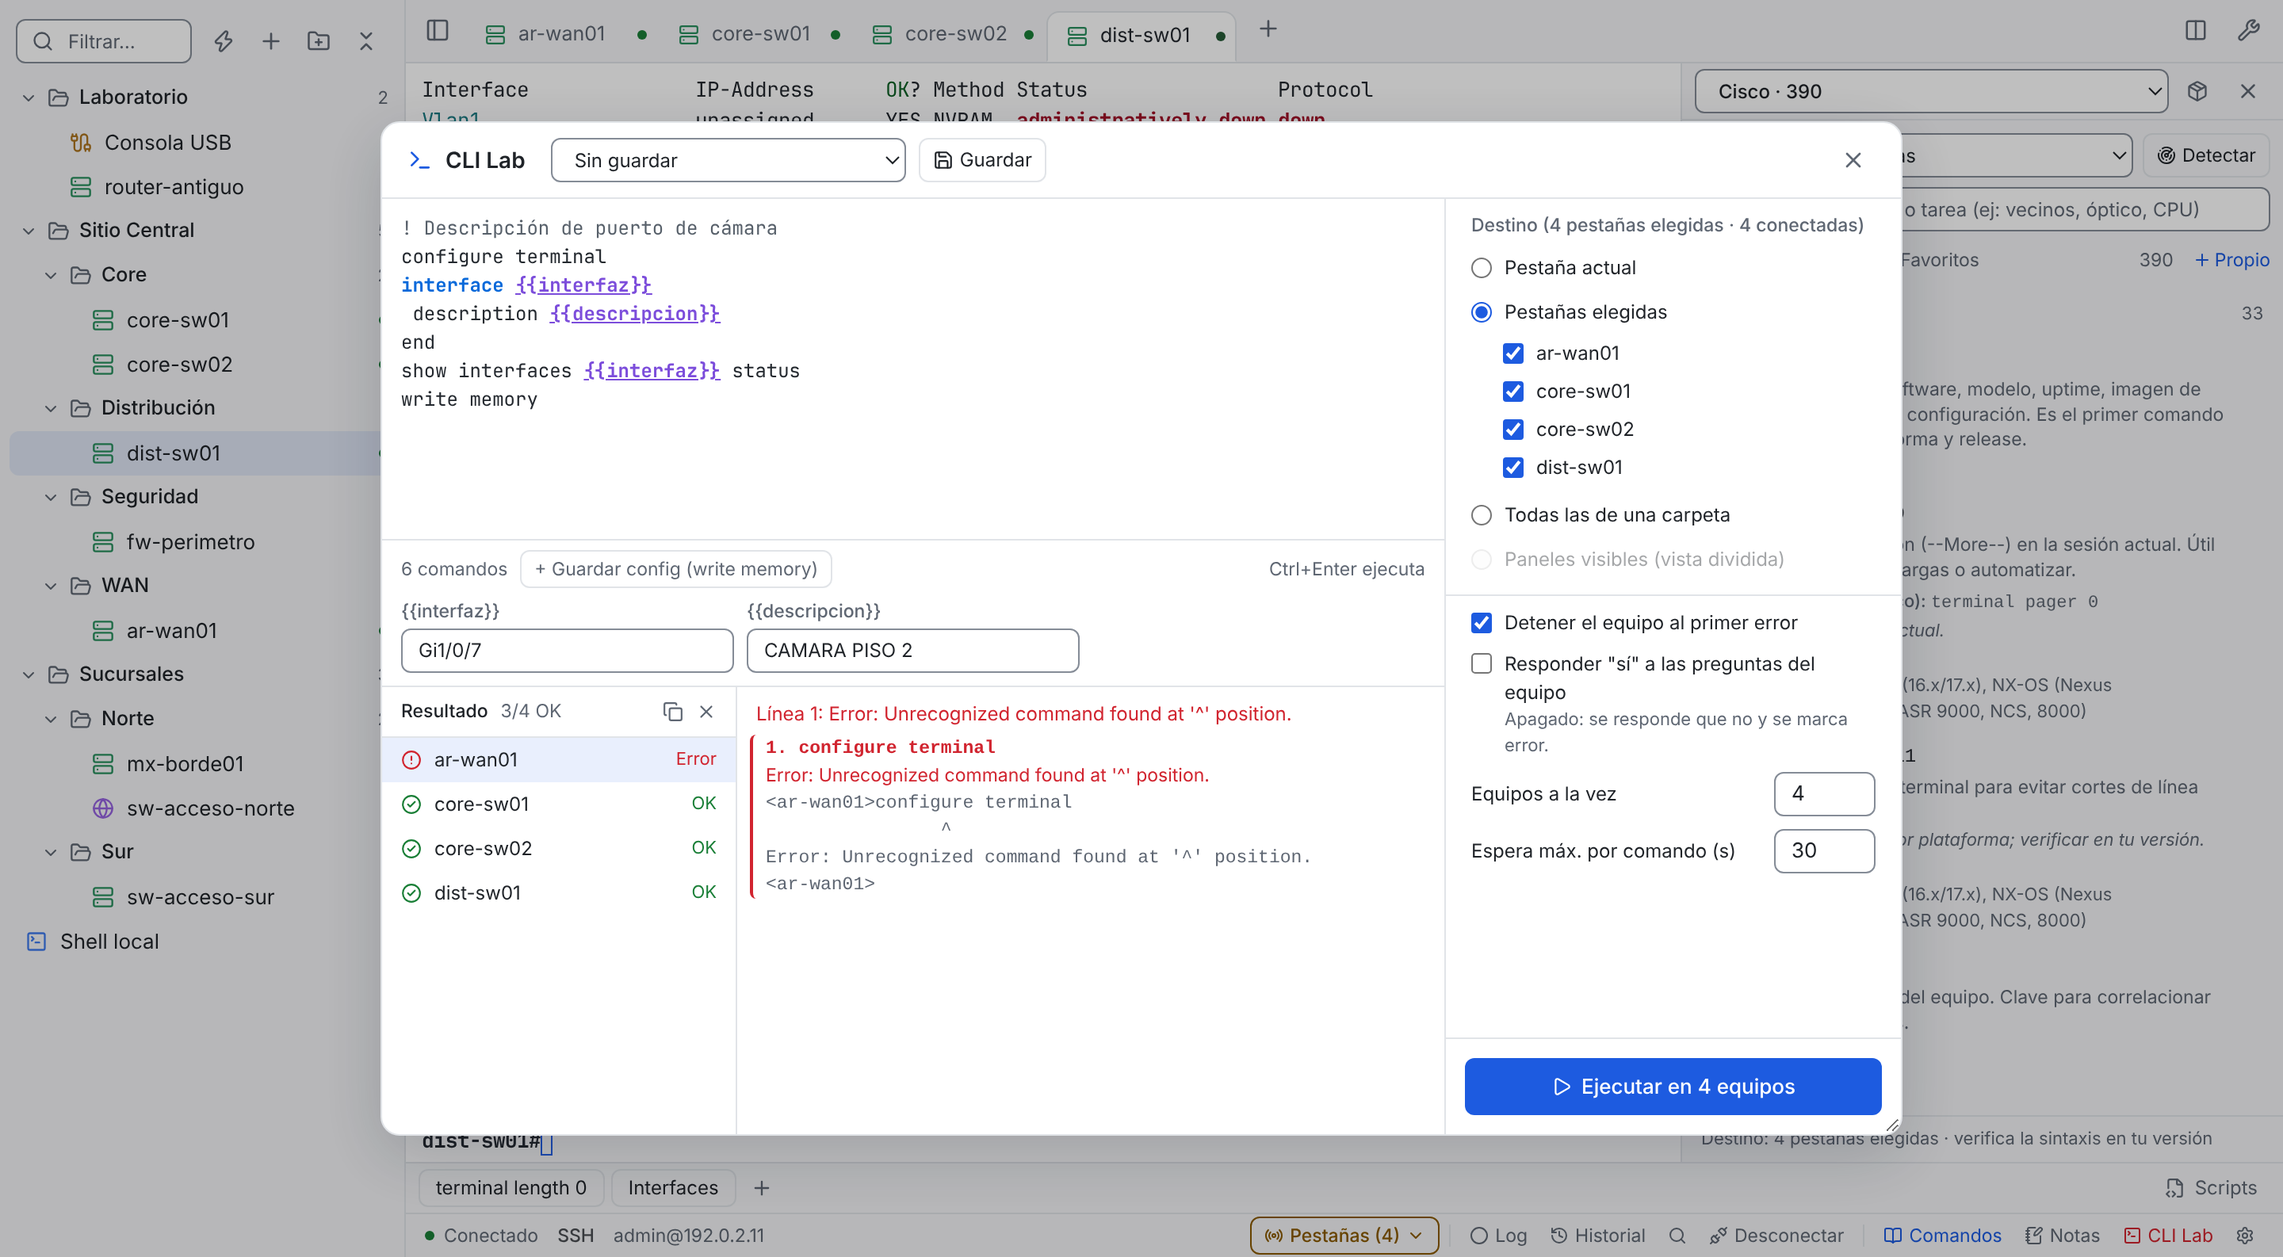
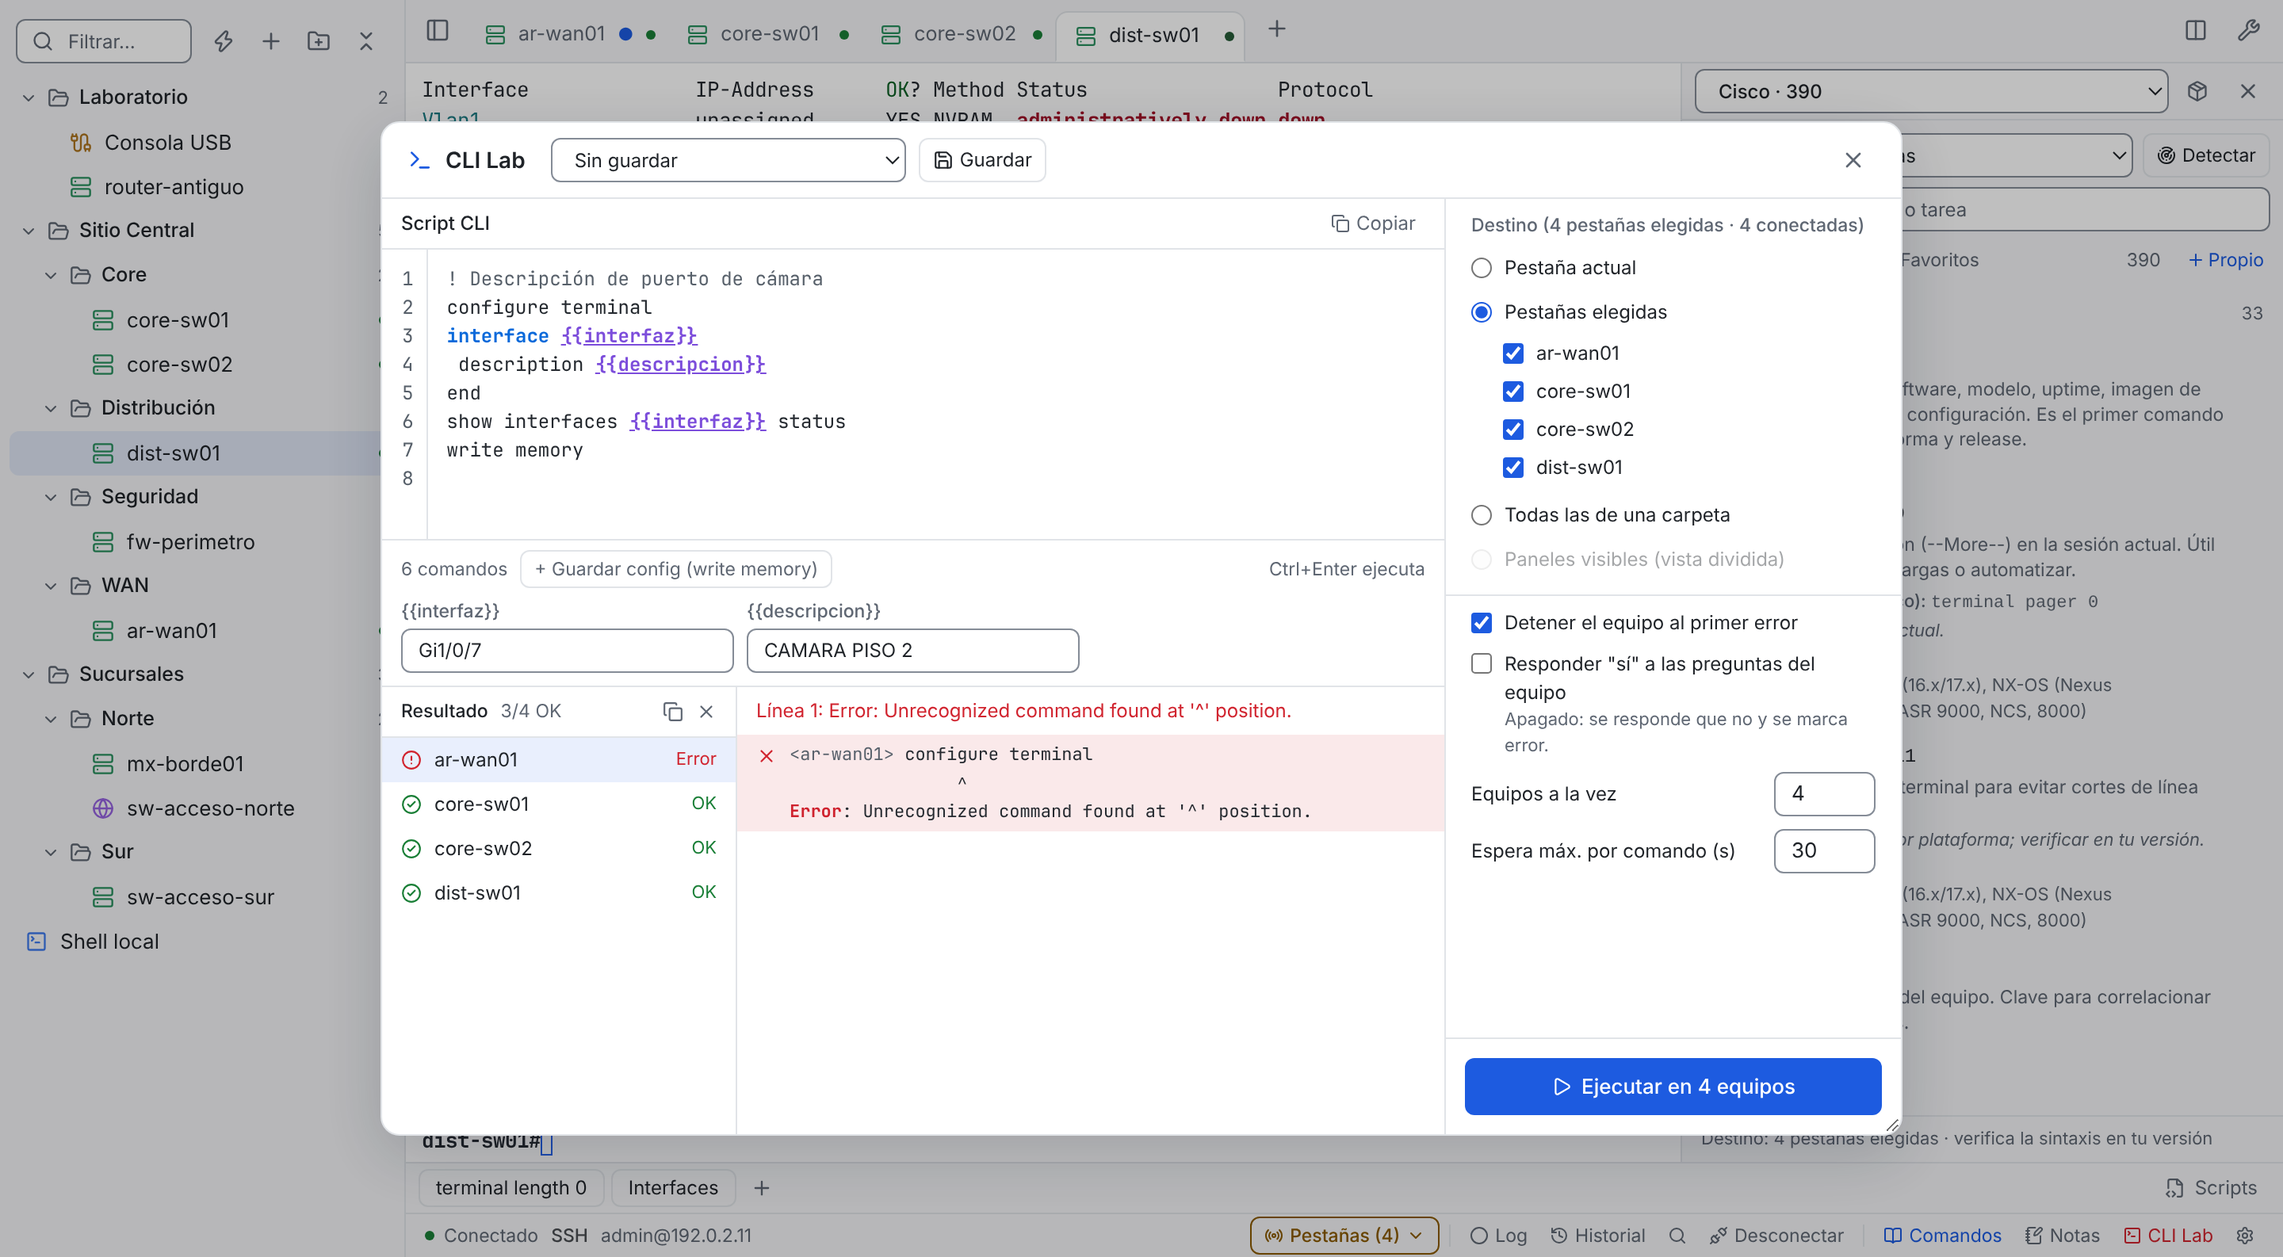
CLI Lab con aspecto de Code Lab: números de línea, salida tipo consola y modo claro
- El Lab sigue el modo claro u oscuro de la app (no el tema de la
  terminal) y resalta con las mismas reglas del fabricante.
- Editor con números de línea y barra "Script CLI · Copiar".
- Salida como la consola del equipo: ✓ o ✗, prompt atenuado y comando
  resaltado, y debajo solo lo que respondió el equipo ("new entry …
  added"); la fila con error queda en rojo y la vista salta a ella.
- "+ Guardar config" usa el fabricante de la pestaña activa (en FortiOS no
  ofrece write memory).
- splitStep() separa prompt, eco y respuesta (con pruebas). Demo: el
  FortiGate responde con contexto en el prompt.

Claude-Session: https://claude.ai/code/session_01LZm5smYBDTDfaAPY2jGg55

diff --git a/src/components/CliLab.tsx b/src/components/CliLab.tsx
@@ -1,15 +1,16 @@
 import { useEffect, useMemo, useRef, useState } from "react";
 import type { ITheme } from "@xterm/xterm";
 import { writeText } from "@tauri-apps/plugin-clipboard-manager";
-import { CircleAlert, CircleCheck, Copy, Play, Save, Square, Terminal, X } from "lucide-react";
+import { Check, CircleAlert, CircleCheck, Copy, Play, Save, Square, Terminal, X } from "lucide-react";
 import { invoke } from "@tauri-apps/api/core";
-import { CodeEditor } from "./CodeEditor";
+import { CodeEditor, renderHighlighted } from "./CodeEditor";
+import { cssColor } from "../lib/highlight";
 import { TargetOptions } from "./BroadcastTarget";
 import { BroadcastDialog } from "./BroadcastDialog";
 import { fillTemplate, templateVars } from "./TemplateDialog";
 import { Compiled } from "../lib/highlight";
 import { Resolved, isBroadcastRunning, targetLabel, useBroadcastTarget, useWorkspace } from "../lib/broadcast";
-import { LabItem, SAVE_COMMAND, clearLab, isLabRunning, labReport, runLab, scriptLines, stopLab, useLabRun } from "../lib/cliLab";
+import { LabItem, SAVE_COMMAND, clearLab, isLabRunning, labReport, runLab, scriptLines, splitStep, stopLab, useLabRun } from "../lib/cliLab";
 import { runOnDeviceResult } from "../lib/deviceRun";
 import { isSecretVar } from "../lib/templateSecrets";
 import { useDragResize } from "../lib/useDragResize";
@@ -268,8 +269,20 @@ export function CliLab(p: Props) {
 
         <div className="flex-1 min-h-0 flex">
           <section className="flex-1 min-w-0 flex flex-col">
+            <div className="shrink-0 flex items-center gap-2 px-3 h-8 border-b border-line text-[12px]">
+              <span className="font-medium">Script CLI</span>
+              <span className="flex-1" />
+              <button
+                onClick={() => writeText(text).then(() => setMsg("Script copiado"))}
+                disabled={!text.trim()}
+                className="flex items-center gap-1 px-1.5 h-6 rounded text-muted hover:text-fg hover:bg-hover disabled:opacity-40"
+              >
+                <Copy size={12} /> Copiar
+              </button>
+            </div>
             <div className="flex-1 min-h-0 flex flex-col overflow-hidden border-b border-line">
               <CodeEditor
+                gutter
                 value={text}
                 onChange={setText}
                 compiled={p.compiled}
@@ -352,22 +365,45 @@ export function CliLab(p: Props) {
                     ))}
                   </ul>
                 </div>
-                <div className="flex-1 min-w-0 overflow-auto font-mono text-[11.5px] p-2">
-                  {!shown && <p className="font-sans text-[12px] text-muted p-2">Elige un equipo para ver la respuesta de cada comando.</p>}
-                  {shown && shown.reason && <p className="font-sans text-[12px] text-danger px-1 pb-1">{shown.reason}</p>}
-                  {shown?.steps.map((s, k) => (
-                    <div
-                      key={k}
-                      ref={!s.ok && shown.steps.findIndex((x) => !x.ok) === k ? failRef : undefined}
-                      className={`mb-1.5 rounded border-l-2 pl-2 ${s.ok ? "border-line" : "border-danger"}`}
-                    >
-                      <div className={`font-semibold ${s.ok ? "" : "text-danger"}`}>
-                        {k + 1}. {s.cmd}
+                {/* Salida como la consola del equipo: prompt y comando, ✓ o ✗, y lo que respondió. */}
+                <div
+                  className="flex-1 min-w-0 overflow-auto py-1.5"
+                  style={{ background: p.theme.background, color: p.theme.foreground, fontFamily: fontStack(p.font), fontSize: Math.max(11, p.fontSize - 1) }}
+                >
+                  {!shown && <p className="font-sans text-[12px] text-muted p-3">Elige un equipo para ver la respuesta de cada comando.</p>}
+                  {shown && shown.reason && <p className="font-sans text-[12px] text-danger px-3 pb-1.5">{shown.reason}</p>}
+                  {shown?.steps.map((s, k) => {
+                    const { prompt, body } = splitStep(s.output, s.cmd);
+                    const first = !s.ok && shown.steps.findIndex((x) => !x.ok) === k;
+                    return (
+                      <div
+                        key={k}
+                        ref={first ? failRef : undefined}
+                        className={`px-3 py-1 leading-[1.55] ${s.ok ? "hover:bg-hover" : "bg-[color-mix(in_srgb,var(--danger)_10%,transparent)]"}`}
+                      >
+                        <div className="flex items-start gap-2 whitespace-pre">
+                          {s.ok ? <Check size={13} className="shrink-0 mt-[3px] text-ok" /> : <X size={13} className="shrink-0 mt-[3px] text-danger" />}
+                          <span className="min-w-0">
+                            {prompt && <span style={{ color: cssColor("gray", p.theme) }}>{prompt} </span>}
+                            {renderHighlighted(s.cmd.trim(), p.compiled, p.theme)}
+                          </span>
+                        </div>
+                        {(body.length > 0 || s.note) && (
+                          <div className="pl-[21px] pt-0.5 whitespace-pre">
+                            {body.map((l, i) => (
+                              <div key={i}>{renderHighlighted(l, p.compiled, p.theme)}</div>
+                            ))}
+                            {s.note && body.every((l) => !s.note!.includes(l.trim()) || !l.trim()) && (
+                              <div className="font-sans text-[12px] text-danger">{s.note}</div>
+                            )}
+                          </div>
+                        )}
                       </div>
-                      {s.note && <div className="font-sans text-danger">{s.note}</div>}
-                      <pre className="whitespace-pre-wrap text-muted">{s.output.replace(/\r/g, "").trim()}</pre>
-                    </div>
-                  ))}
+                    );
+                  })}
+                  {shown && shown.status === "running" && (
+                    <div className="px-3 py-1 font-sans text-[12px] text-muted animate-pulse">Ejecutando línea {shown.steps.length + 1}…</div>
+                  )}
                 </div>
               </section>
             )}

diff --git a/src/components/CodeEditor.tsx b/src/components/CodeEditor.tsx
@@ -2,6 +2,35 @@ import { forwardRef, useMemo, useRef } from "react";
 import type { ITheme } from "@xterm/xterm";
 import { Compiled, cssColor, runs } from "../lib/highlight";
 
+/** Una línea coloreada con las reglas de resaltado (las mismas de la terminal). */
+export function renderHighlighted(line: string, compiled: Compiled[], theme: ITheme): React.ReactNode {
+  const spans = runs(line, compiled);
+  if (!spans.length) return line || " ";
+  const parts: React.ReactNode[] = [];
+  let pos = 0;
+  spans.forEach(([s, e, i], k) => {
+    if (s > pos) parts.push(line.slice(pos, s));
+    const st = compiled[i].style;
+    parts.push(
+      <span
+        key={k}
+        style={{
+          color: cssColor(st.color, theme),
+          background: cssColor(st.bg, theme),
+          fontWeight: st.bold ? 700 : undefined,
+          fontStyle: st.italic ? "italic" : undefined,
+          textDecoration: st.underline ? "underline" : undefined,
+        }}
+      >
+        {line.slice(s, e)}
+      </span>,
+    );
+    pos = e;
+  });
+  parts.push(line.slice(pos));
+  return parts;
+}
+
 interface Props {
   value: string;
   onChange: (v: string) => void;
@@ -11,6 +40,8 @@ interface Props {
   font: string;
   fontSize: number;
   placeholder?: string;
+  /** Columna con el número de cada línea (CLI Lab). */
+  gutter?: boolean;
 }
 
 /**
@@ -18,10 +49,12 @@ interface Props {
  * coloreada con el mismo motor que la terminal. Sin ajuste de línea, como un editor de config.
  */
 export const CodeEditor = forwardRef<HTMLTextAreaElement, Props>(function CodeEditor(
-  { value, onChange, onKeyDown, compiled, theme, font, fontSize, placeholder },
+  { value, onChange, onKeyDown, compiled, theme, font, fontSize, placeholder, gutter },
   ref,
 ) {
   const preRef = useRef<HTMLPreElement>(null);
+  const gutterRef = useRef<HTMLDivElement>(null);
+  const lineCount = gutter ? value.split("\n").length : 0;
 
   // Caché por texto de línea: al teclear solo se vuelve a resaltar la línea que cambió.
   const cache = useMemo(() => new Map<string, React.ReactNode>(), [compiled, theme]);
@@ -31,39 +64,12 @@ export const CodeEditor = forwardRef<HTMLTextAreaElement, Props>(function CodeEd
     return value.split("\n").map((line, li) => {
       let body = cache.get(line);
       if (body === undefined) {
-        body = renderLine(line);
+        body = renderHighlighted(line, compiled, theme);
         cache.set(line, body);
       }
       return <div key={li}>{body}</div>;
     });
 
-    function renderLine(line: string): React.ReactNode {
-      const spans = runs(line, compiled);
-      if (!spans.length) return line || " ";
-      const parts: React.ReactNode[] = [];
-      let pos = 0;
-      spans.forEach(([s, e, i], k) => {
-        if (s > pos) parts.push(line.slice(pos, s));
-        const st = compiled[i].style;
-        parts.push(
-          <span
-            key={k}
-            style={{
-              color: cssColor(st.color, theme),
-              background: cssColor(st.bg, theme),
-              fontWeight: st.bold ? 700 : undefined,
-              fontStyle: st.italic ? "italic" : undefined,
-              textDecoration: st.underline ? "underline" : undefined,
-            }}
-          >
-            {line.slice(s, e)}
-          </span>,
-        );
-        pos = e;
-      });
-      parts.push(line.slice(pos));
-      return parts;
-    }
   }, [value, cache, compiled, theme]);
 
   const shared: React.CSSProperties = {
@@ -76,8 +82,8 @@ export const CodeEditor = forwardRef<HTMLTextAreaElement, Props>(function CodeEd
     margin: 0,
   };
 
-  return (
-    <div className="relative flex-1 min-h-0" style={{ background: theme.background }}>
+  const editor = (
+    <div className="relative flex-1 min-h-0 min-w-0" style={{ background: theme.background }}>
       <pre
         ref={preRef}
         aria-hidden
@@ -101,6 +107,7 @@ export const CodeEditor = forwardRef<HTMLTextAreaElement, Props>(function CodeEd
             preRef.current.scrollTop = e.currentTarget.scrollTop;
             preRef.current.scrollLeft = e.currentTarget.scrollLeft;
           }
+          if (gutterRef.current) gutterRef.current.style.transform = `translateY(${-e.currentTarget.scrollTop}px)`;
         }}
         className="code-editor absolute inset-0 w-full h-full resize-none outline-none bg-transparent overflow-auto"
         style={{
@@ -110,6 +117,31 @@ export const CodeEditor = forwardRef<HTMLTextAreaElement, Props>(function CodeEd
           WebkitTextFillColor: "transparent",
         }}
       />
+    </div>
+  );
+  if (!gutter) return editor;
+  return (
+    <div className="flex flex-1 min-h-0" style={{ background: theme.background }}>
+      <div
+        aria-hidden
+        className="shrink-0 overflow-hidden select-none text-right border-r"
+        style={{
+          fontFamily: font,
+          fontSize,
+          lineHeight: 1.5,
+          padding: "10px 8px 10px 12px",
+          minWidth: `${String(lineCount).length + 3}ch`,
+          color: cssColor("gray", theme),
+          borderColor: "var(--border)",
+        }}
+      >
+        <div ref={gutterRef}>
+          {Array.from({ length: lineCount }, (_, i) => (
+            <div key={i}>{i + 1}</div>
+          ))}
+        </div>
+      </div>
+      {editor}
     </div>
   );
 });

diff --git a/scripts/screenshots/mock.js b/scripts/screenshots/mock.js
@@ -959,10 +959,32 @@ if (new URLSearchParams(location.search).has("video")) {
   };
   // Detectar plataforma y otras consultas por la vía de herramientas (device_run).
   const deviceRun = handlers.device_run;
+  const fortiCtx = new Map();
   handlers.device_run = (args) => {
     if (/running-config|current-configuration/.test(args.command)) return deviceRun(args);
     const s = connSessions.get(args.conn) ?? {};
     const job = `job-${nextId++}`;
+    // FortiOS: el prompt muestra el contexto ("fw01 (port1) # ") y "edit" de una entrada nueva avisa.
+    if (s.highlight === "fortinet") {
+      const stack = fortiCtx.get(args.conn) ?? [];
+      const ctxPrompt = () => `${s.name}${stack.length ? ` (${stack[stack.length - 1]})` : ""} # `;
+      const before = ctxPrompt();
+      const c = args.command.trim();
+      let body = "";
+      const m = c.match(/^(config|edit)\s+"?([^"]+?)"?$/);
+      if (m) {
+        if (m[1] === "edit" && !/^\d+$/.test(m[2])) body = `new entry '${m[2]}' added\r\n\r\n`;
+        stack.push(m[1] === "config" ? m[2].split(/\s+/).pop() : m[2]);
+      } else if (c === "next" || c === "end") stack.pop();
+      else if (!/^(set|unset|get|show|diagnose|execute)\b/.test(c)) body = "command parse error before '" + c.split(/\s+/)[0] + "'\r\nCommand fail. Return code -61\r\n";
+      fortiCtx.set(args.conn, stack);
+      const output = `${before}${args.command}\r\n${body}${ctxPrompt()}`;
+      setTimeout(() => {
+        emit("tool-job", { job, kind: "result", text: "", data: { ok: !/Command fail/.test(body), output } });
+        emit("tool-job", { job, kind: "done", text: "" });
+      }, 250);
+      return job;
+    }
     const prompt = s.highlight === "huawei" ? `<${s.name}>` : `${s.name}#`;
     // CLI Lab: comandos inexistentes dan error de CLI; "reload" pregunta y, sin answer, se rechaza.
     // Un Huawei no entiende la sintaxis de Cisco: el CLI Lab marca error y detiene ese equipo.

diff --git a/src/App.tsx b/src/App.tsx
@@ -33,7 +33,7 @@ import { Sparkles, X as XIcon } from "lucide-react";
 import { listen } from "@tauri-apps/api/event";
 import { ConnStatus, Session, Tab, TabState, historyKey, tabTitle } from "./types";
 import { closeAllLabel, localOsVendor, modLabel, shortcutFor } from "./lib/platform";
-import { resolvePreset, useSystemDark } from "./lib/theme";
+import { presets, resolvePreset, useSystemDark } from "./lib/theme";
 import { Settings, logOptions, useSettings } from "./lib/settings";
 import { useAlerts } from "./lib/alerts";
 import { BroadcastBar, BroadcastDialog } from "./components/BroadcastDialog";
@@ -1587,9 +1587,11 @@ function Workspace({
       {labOpen && (
         <CliLab
           key={labOpen.n}
-          vendor={settings.catalogVendor}
+          // Comando de guardado según el fabricante de la pestaña activa (su resaltado), no el del catálogo.
+          vendor={activeTab && activeTab.session.highlight && activeTab.session.highlight !== "default" ? vendorFor(activeTab.session.highlight) : settings.catalogVendor}
           compiled={notesRules}
-          theme={preset.theme}
+          // Sigue el modo claro u oscuro de la app (no el tema de la terminal), como un editor.
+          theme={(presets.find((x) => x.id === (dark ? "nt-dark" : "nt-light")) ?? preset).theme}
           font={settings.fontFamily}
           fontSize={Math.max(11, settings.fontSize - 1)}
           resolve={h.labTargets}

diff --git a/src/lib/cliLab.ts b/src/lib/cliLab.ts
@@ -5,7 +5,7 @@
  */
 import { useSyncExternalStore } from "react";
 import type { DeviceResult } from "./deviceRun";
-import { commandError } from "./cliText";
+import { commandError, isPrompt, plainCli } from "./cliText";
 import { pool } from "./backup";
 import { store } from "./store";
 
@@ -173,6 +173,22 @@ export async function runLab(targets: LabTarget[], lines: string[], opts: LabOpt
 }
 
 /** Texto plano de la ejecución, por equipo, para copiar o guardar. */
+/**
+ * Partes de la respuesta a un comando para mostrarla como en la consola: el prompt con que se
+ * escribió (del eco: "fw01 (port1) # set alias wan") y las líneas que respondió el equipo, sin el
+ * eco ni el prompt final.
+ */
+export function splitStep(output: string, cmd: string): { prompt: string; body: string[] } {
+  const lines = plainCli(output).split("\n");
+  const c = cmd.trim();
+  const echo = c ? lines.findIndex((l) => l.includes(c)) : -1;
+  const prompt = echo >= 0 ? lines[echo].slice(0, lines[echo].indexOf(c)).trimEnd() : "";
+  let body = lines.slice(echo + 1);
+  while (body.length && (!body[body.length - 1].trim() || isPrompt(body[body.length - 1].trim()))) body.pop();
+  while (body.length && !body[0].trim()) body.shift();
+  return { prompt, body };
+}
+
 export function labReport(run: LabRun): string {
   return run.items
     .map((i) => {
